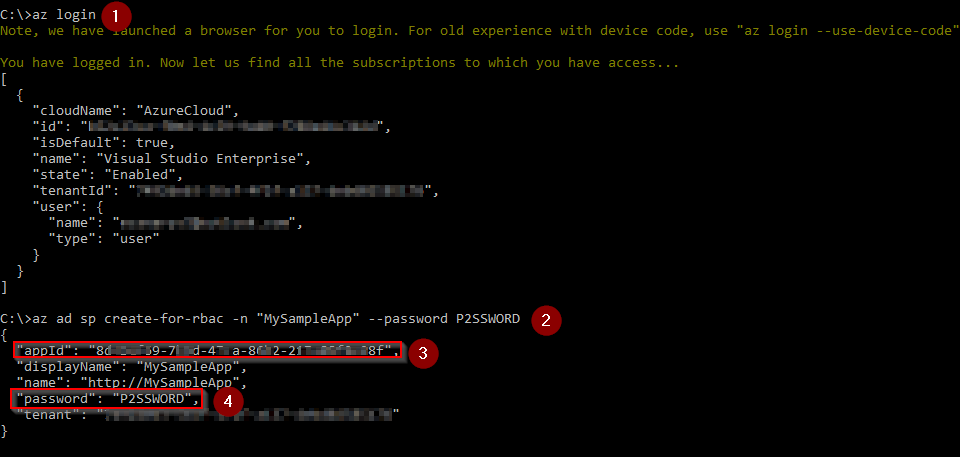
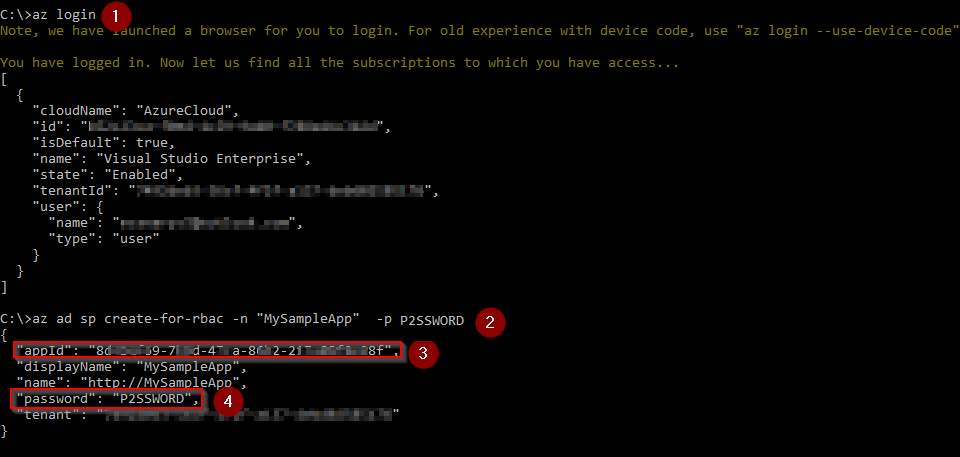
updated service principal command

Changed region(s): [[0.4062, 0.674, 0.5938, 0.7352]]

diff --git a/labs/vstsextend/kubernetes/readme.md b/labs/vstsextend/kubernetes/readme.md
@@ -68,7 +68,7 @@ This lab requires all the pre-requisite executables to be installed and configur
 
 1. Type **az login** in the command prompt and press Enter. Authorize your login in the browser.
 
-     1. Type **az ad sp create-for-rbac -n "MySampleApp" --password P2SSWORD** in the command prompt to get the Service Principal Client and the Service Principal Client Secret.(Note that it is a double dash before the **password** parameter)
+     1. Type **az ad sp create-for-rbac -n "MySampleApp" -p P2SSWORD** in the command prompt to get the Service Principal Client and the Service Principal Client Secret.
 
      * Copy appId which is the **Service Principal Client ID**
 
